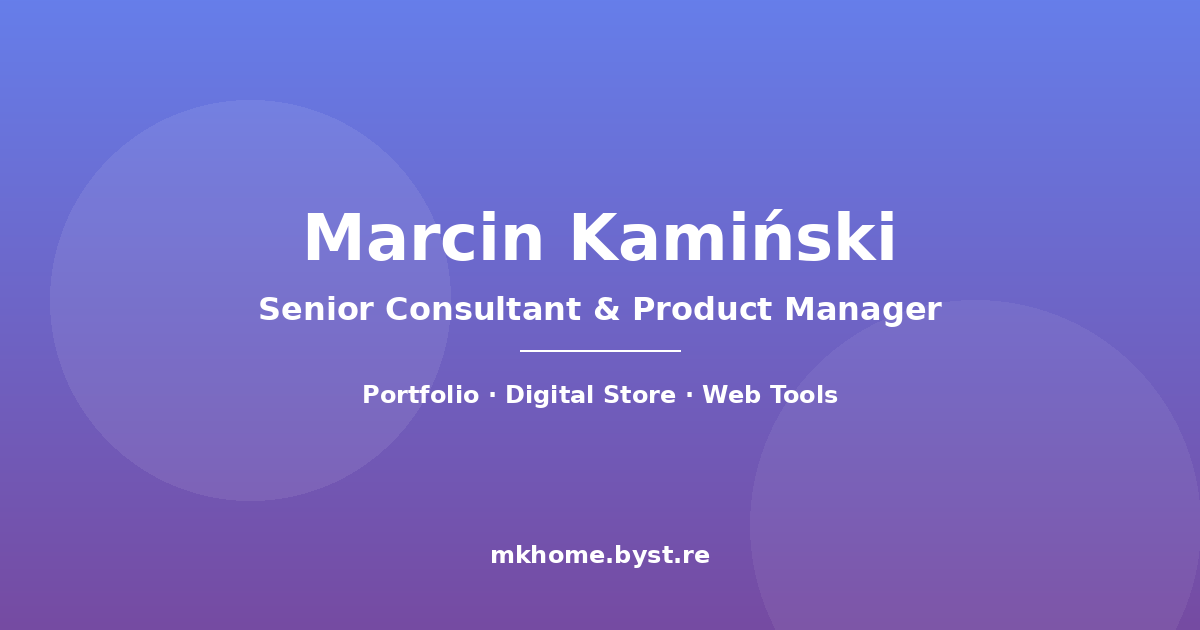
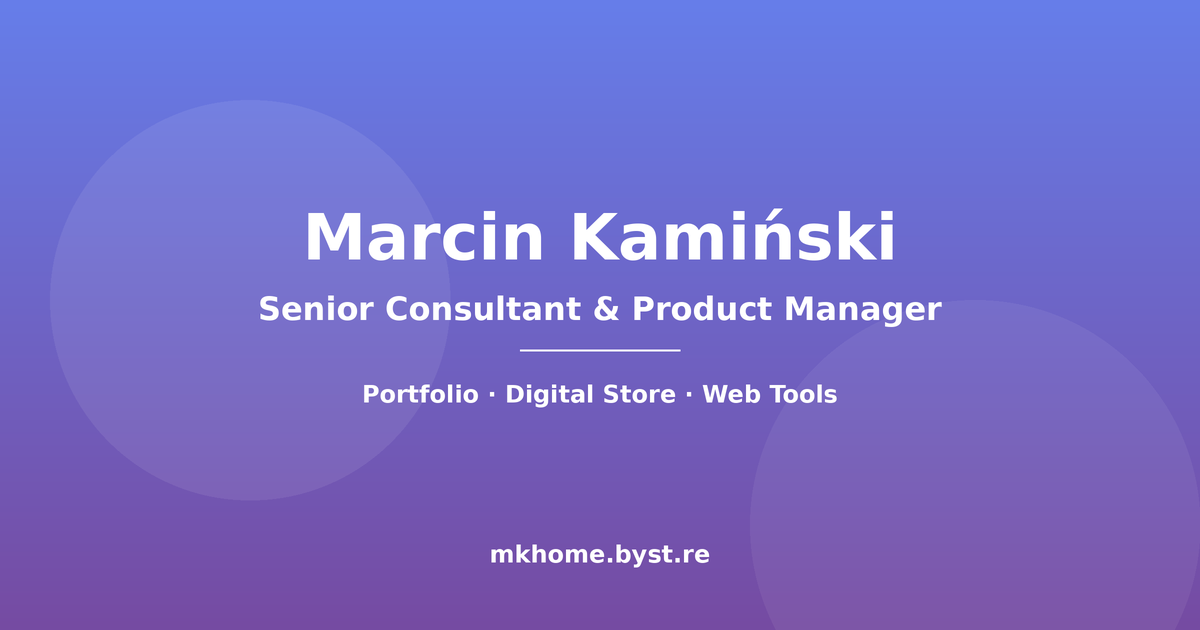
fix: address SEO validation feedback from Facebook, LinkedIn, Google
- Switch JSON-LD from Book to Product schema with price for Google Rich Results
- Add og:image:width/height tags to all pages (fixes LinkedIn blurry preview)
- Add article:published_time to store.html (fixes LinkedIn missing date)
- Add price/currency fields to products.json
- Regenerate OG image at 2x resolution with LANCZOS downscale for sharper text

diff --git a/store.html b/store.html
@@ -17,6 +17,9 @@
     <meta property="og:url" content="https://mkhome.byst.re/store.html">
     <meta property="og:type" content="website">
     <meta property="og:image" content="https://mkhome.byst.re/store/assets/og-image.png">
+    <meta property="og:image:width" content="1200">
+    <meta property="og:image:height" content="630">
+    <meta property="article:published_time" content="2026-03-07">
     <meta name="twitter:card" content="summary_large_image">
     <link href="https://cdn.jsdelivr.net/npm/bootstrap@5.3.0/dist/css/bootstrap.min.css" rel="stylesheet">
     <link rel="stylesheet" href="styles.css">
@@ -461,19 +464,18 @@
 <script type="application/ld+json">
 {
   "@context": "https://schema.org",
-  "@type": "Book",
+  "@type": "Product",
   "name": "Tecnología para Seniors: Una Guía Práctica",
-  "author": {
+  "description": "Una guía completa de 16 capítulos pensada para personas mayores y de la tercera edad que quieren aprender a usar la tecnología paso a paso. Cubre todo, desde cómo funciona un ordenador, fundamentos de internet, esenciales del móvil, ciberseguridad, banca online, seguridad en redes sociales, fundamentos de IA y el futuro digital — todo con explicaciones sencillas y sin tecnicismos.",
+  "image": "https://mkhome.byst.re/store/assets/it-for-seniors.png",
+  "brand": {
     "@type": "Person",
     "name": "Marcin Kaminski"
   },
-  "description": "Una guía completa de 16 capítulos pensada para personas mayores y de la tercera edad que quieren aprender a usar la tecnología paso a paso. Cubre todo, desde cómo funciona un ordenador, fundamentos de internet, esenciales del móvil, ciberseguridad, banca online, seguridad en redes sociales, fundamentos de IA y el futuro digital — todo con explicaciones sencillas y sin tecnicismos.",
-  "url": "https://www.amazon.com/Tecnolog%C3%ADa-para-Seniors-Pr%C3%A1ctica-Principiantes-ebook/dp/B0GPQFWPB3/ref=sr_1_1?dib=eyJ2IjoiMSJ9.mpz4p6ki7PUiCqEHIGh7U_7ZdKl1T8RwIKj7LN1NfMtOoW_pxBq9bFX7bNyGir4sc_ZDSLBA9beXnxBc3HgH4g.ZEyqPqCDEmkA_eYIIyXa340BiSopkPhM3Fk8NJRpIPY&dib_tag=se&qid=1772641067&refinements=p_27%3AMarcin+Kaminski&s=digital-text&sr=1-1&text=Marcin+Kaminski",
-  "image": "https://mkhome.byst.re/store/assets/it-for-seniors.png",
-  "inLanguage": "es",
-  "bookFormat": "EBook",
   "offers": {
     "@type": "Offer",
+    "price": "9.99",
+    "priceCurrency": "USD",
     "availability": "https://schema.org/InStock",
     "url": "https://www.amazon.com/Tecnolog%C3%ADa-para-Seniors-Pr%C3%A1ctica-Principiantes-ebook/dp/B0GPQFWPB3/ref=sr_1_1?dib=eyJ2IjoiMSJ9.mpz4p6ki7PUiCqEHIGh7U_7ZdKl1T8RwIKj7LN1NfMtOoW_pxBq9bFX7bNyGir4sc_ZDSLBA9beXnxBc3HgH4g.ZEyqPqCDEmkA_eYIIyXa340BiSopkPhM3Fk8NJRpIPY&dib_tag=se&qid=1772641067&refinements=p_27%3AMarcin+Kaminski&s=digital-text&sr=1-1&text=Marcin+Kaminski"
   }
@@ -482,19 +484,18 @@
 <script type="application/ld+json">
 {
   "@context": "https://schema.org",
-  "@type": "Book",
+  "@type": "Product",
   "name": "Gestión de Productos con IA",
-  "author": {
+  "description": "Domina la intersección entre inteligencia artificial y gestión de productos. Esta guía cubre fundamentos de ML para PMs, análisis de datos para productos de IA, roadmapping de productos de IA, trayectorias profesionales y salarios en AI PM — todo lo que necesitas para liderar productos potenciados por IA con confianza.",
+  "image": "https://mkhome.byst.re/store/assets/ai-product-management.png",
+  "brand": {
     "@type": "Person",
     "name": "Marcin Kaminski"
   },
-  "description": "Domina la intersección entre inteligencia artificial y gestión de productos. Esta guía cubre fundamentos de ML para PMs, análisis de datos para productos de IA, roadmapping de productos de IA, trayectorias profesionales y salarios en AI PM — todo lo que necesitas para liderar productos potenciados por IA con confianza.",
-  "url": "https://www.amazon.com/Gestion-Productos-Product-Management-Definitiva-ebook/dp/B0GPLH8VWT/ref=sr_1_2?dib=eyJ2IjoiMSJ9.mpz4p6ki7PUiCqEHIGh7U_7ZdKl1T8RwIKj7LN1NfMtOoW_pxBq9bFX7bNyGir4sc_ZDSLBA9beXnxBc3HgH4g.ZEyqPqCDEmkA_eYIIyXa340BiSopkPhM3Fk8NJRpIPY&dib_tag=se&qid=1772640820&refinements=p_27%3AMarcin+Kaminski&s=digital-text&sr=1-2&text=Marcin+Kaminski",
-  "image": "https://mkhome.byst.re/store/assets/ai-product-management.png",
-  "inLanguage": "es",
-  "bookFormat": "EBook",
   "offers": {
     "@type": "Offer",
+    "price": "9.99",
+    "priceCurrency": "USD",
     "availability": "https://schema.org/InStock",
     "url": "https://www.amazon.com/Gestion-Productos-Product-Management-Definitiva-ebook/dp/B0GPLH8VWT/ref=sr_1_2?dib=eyJ2IjoiMSJ9.mpz4p6ki7PUiCqEHIGh7U_7ZdKl1T8RwIKj7LN1NfMtOoW_pxBq9bFX7bNyGir4sc_ZDSLBA9beXnxBc3HgH4g.ZEyqPqCDEmkA_eYIIyXa340BiSopkPhM3Fk8NJRpIPY&dib_tag=se&qid=1772640820&refinements=p_27%3AMarcin+Kaminski&s=digital-text&sr=1-2&text=Marcin+Kaminski"
   }

diff --git a/portfolio.html b/portfolio.html
@@ -12,6 +12,8 @@
     <meta property="og:url" content="https://mkhome.byst.re/portfolio.html">
     <meta property="og:type" content="website">
     <meta property="og:image" content="https://mkhome.byst.re/store/assets/og-image.png">
+    <meta property="og:image:width" content="1200">
+    <meta property="og:image:height" content="630">
     <meta name="twitter:card" content="summary_large_image">
     <link href="https://cdn.jsdelivr.net/npm/bootstrap@5.3.0/dist/css/bootstrap.min.css" rel="stylesheet">
     <link rel="stylesheet" href="styles.css">

diff --git a/utilities.html b/utilities.html
@@ -12,6 +12,8 @@
     <meta property="og:url" content="https://mkhome.byst.re/utilities.html">
     <meta property="og:type" content="website">
     <meta property="og:image" content="https://mkhome.byst.re/store/assets/og-image.png">
+    <meta property="og:image:width" content="1200">
+    <meta property="og:image:height" content="630">
     <meta name="twitter:card" content="summary_large_image">
     <link href="https://cdn.jsdelivr.net/npm/bootstrap@5.3.0/dist/css/bootstrap.min.css" rel="stylesheet">
     <link rel="stylesheet" href="styles.css">

diff --git a/projects.html b/projects.html
@@ -12,6 +12,8 @@
     <meta property="og:url" content="https://mkhome.byst.re/projects.html">
     <meta property="og:type" content="website">
     <meta property="og:image" content="https://mkhome.byst.re/store/assets/og-image.png">
+    <meta property="og:image:width" content="1200">
+    <meta property="og:image:height" content="630">
     <meta name="twitter:card" content="summary_large_image">
     <link href="https://cdn.jsdelivr.net/npm/bootstrap@5.3.0/dist/css/bootstrap.min.css" rel="stylesheet">
     <link rel="stylesheet" href="styles.css">

diff --git a/index.html b/index.html
@@ -12,6 +12,8 @@
     <meta property="og:url" content="https://mkhome.byst.re/index.html">
     <meta property="og:type" content="website">
     <meta property="og:image" content="https://mkhome.byst.re/store/assets/og-image.png">
+    <meta property="og:image:width" content="1200">
+    <meta property="og:image:height" content="630">
     <meta name="twitter:card" content="summary_large_image">
     <link href="https://cdn.jsdelivr.net/npm/bootstrap@5.3.0/dist/css/bootstrap.min.css" rel="stylesheet">
     <link rel="stylesheet" href="styles.css">

diff --git a/scripts/generate-og-image.py b/scripts/generate-og-image.py
@@ -1,5 +1,8 @@
 #!/usr/bin/env python3
-"""Generate Open Graph image (1200x630px) with site branding."""
+"""Generate Open Graph image (1200x630px) with site branding.
+
+Renders at 2x internally and downscales for sharper text on social platforms.
+"""
 
 from PIL import Image, ImageDraw, ImageFont
 from pathlib import Path
@@ -8,6 +11,7 @@ ROOT = Path(__file__).resolve().parent.parent
 OUTPUT = ROOT / "store" / "assets" / "og-image.png"
 
 WIDTH, HEIGHT = 1200, 630
+SCALE = 2  # Render at 2x for sharper text
 
 # Brand colors from styles.css
 ACCENT_1 = (102, 126, 234)  # #667eea
@@ -26,7 +30,6 @@ def draw_gradient(draw, width, height, c1, c2):
 
 
 def get_font(size):
-    # Try common sans-serif fonts available on Linux
     for name in [
         "/usr/share/fonts/truetype/dejavu/DejaVuSans-Bold.ttf",
         "/usr/share/fonts/truetype/liberation/LiberationSans-Bold.ttf",
@@ -39,63 +42,48 @@ def get_font(size):
     return ImageFont.load_default()
 
 
+def center_text(draw, y, text, font, fill, canvas_width):
+    bbox = draw.textbbox((0, 0), text, font=font)
+    text_w = bbox[2] - bbox[0]
+    draw.text(((canvas_width - text_w) / 2, y), text, fill=fill, font=font)
+
+
 def main():
-    img = Image.new("RGB", (WIDTH, HEIGHT))
+    w, h = WIDTH * SCALE, HEIGHT * SCALE
+    img = Image.new("RGB", (w, h))
     draw = ImageDraw.Draw(img)
 
-    # Diagonal gradient (approximated as vertical)
-    draw_gradient(draw, WIDTH, HEIGHT, ACCENT_1, ACCENT_2)
+    draw_gradient(draw, w, h, ACCENT_1, ACCENT_2)
 
-    # Semi-transparent decorative circles (simulated with lighter color blending)
-    overlay = Image.new("RGBA", (WIDTH, HEIGHT), (0, 0, 0, 0))
+    # Decorative circles
+    overlay = Image.new("RGBA", (w, h), (0, 0, 0, 0))
     overlay_draw = ImageDraw.Draw(overlay)
-    overlay_draw.ellipse([50, 100, 450, 500], fill=(255, 255, 255, 20))
-    overlay_draw.ellipse([750, 300, 1200, 750], fill=(255, 255, 255, 15))
+    overlay_draw.ellipse([100, 200, 900, 1000], fill=(255, 255, 255, 20))
+    overlay_draw.ellipse([1500, 600, 2400, 1500], fill=(255, 255, 255, 15))
     img = Image.alpha_composite(img.convert("RGBA"), overlay).convert("RGB")
     draw = ImageDraw.Draw(img)
 
-    # Text
-    font_large = get_font(64)
-    font_medium = get_font(32)
-    font_small = get_font(24)
+    font_large = get_font(128)
+    font_medium = get_font(64)
+    font_small = get_font(48)
 
     white = (255, 255, 255)
-    white_dim = (255, 255, 255, 200)
 
-    # Name
-    name = "Marcin Kamiński"
-    bbox = draw.textbbox((0, 0), name, font=font_large)
-    name_w = bbox[2] - bbox[0]
-    draw.text(((WIDTH - name_w) / 2, 200), name, fill=white, font=font_large)
+    center_text(draw, 400, "Marcin Kamiński", font_large, white, w)
+    center_text(draw, 580, "Senior Consultant & Product Manager", font_medium, white, w)
 
-    # Subtitle
-    subtitle = "Senior Consultant & Product Manager"
-    bbox = draw.textbbox((0, 0), subtitle, font=font_medium)
-    sub_w = bbox[2] - bbox[0]
-    draw.text(((WIDTH - sub_w) / 2, 290), subtitle, fill=white, font=font_medium)
+    # Divider
+    line_y = 700
+    line_half = 160
+    draw.line([(w / 2 - line_half, line_y), (w / 2 + line_half, line_y)], fill=white, width=4)
 
-    # Divider line
-    line_y = 350
-    line_half = 80
-    draw.line(
-        [(WIDTH / 2 - line_half, line_y), (WIDTH / 2 + line_half, line_y)],
-        fill=white,
-        width=2,
-    )
+    center_text(draw, 760, "Portfolio · Digital Store · Web Tools", font_small, white, w)
+    center_text(draw, 1080, "mkhome.byst.re", font_small, (255, 255, 255, 200), w)
 
-    # Tagline
-    tagline = "Portfolio · Digital Store · Web Tools"
-    bbox = draw.textbbox((0, 0), tagline, font=font_small)
-    tag_w = bbox[2] - bbox[0]
-    draw.text(((WIDTH - tag_w) / 2, 380), tagline, fill=white, font=font_small)
+    # Downscale to final size with high-quality resampling
+    img = img.resize((WIDTH, HEIGHT), Image.LANCZOS)
 
-    # URL at bottom
-    url = "mkhome.byst.re"
-    bbox = draw.textbbox((0, 0), url, font=font_small)
-    url_w = bbox[2] - bbox[0]
-    draw.text(((WIDTH - url_w) / 2, 540), url, fill=(255, 255, 255, 180), font=font_small)
-
-    img.save(OUTPUT, "PNG")
+    img.save(OUTPUT, "PNG", optimize=True)
     print(f"Generated {OUTPUT} ({WIDTH}x{HEIGHT})")
 
 

diff --git a/scripts/build-store.py b/scripts/build-store.py
@@ -32,16 +32,15 @@ def generate_jsonld(products):
         p = product.get(DEFAULT_LANG, product.get("en"))
         schema = {
             "@context": "https://schema.org",
-            "@type": "Book",
+            "@type": "Product",
             "name": p["title"],
-            "author": {"@type": "Person", "name": "Marcin Kaminski"},
             "description": p["description"],
-            "url": product["kdpUrl"],
             "image": f"{BASE_URL}/{product['image']}",
-            "inLanguage": DEFAULT_LANG,
-            "bookFormat": "EBook",
+            "brand": {"@type": "Person", "name": "Marcin Kaminski"},
             "offers": {
                 "@type": "Offer",
+                "price": product.get("price", "9.99"),
+                "priceCurrency": product.get("currency", "USD"),
                 "availability": "https://schema.org/InStock",
                 "url": product["kdpUrl"],
             },
